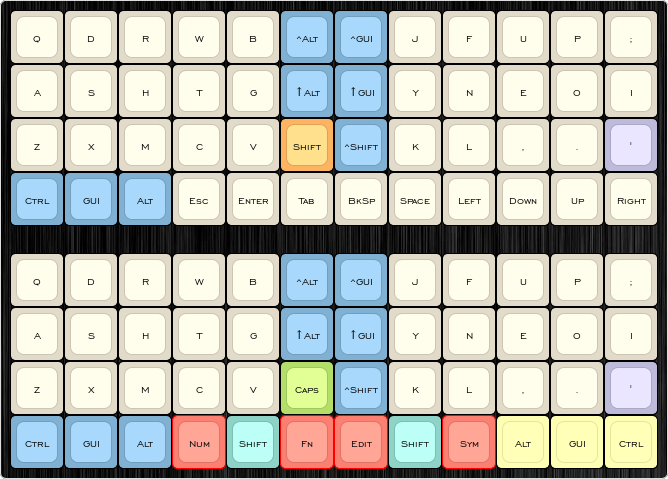
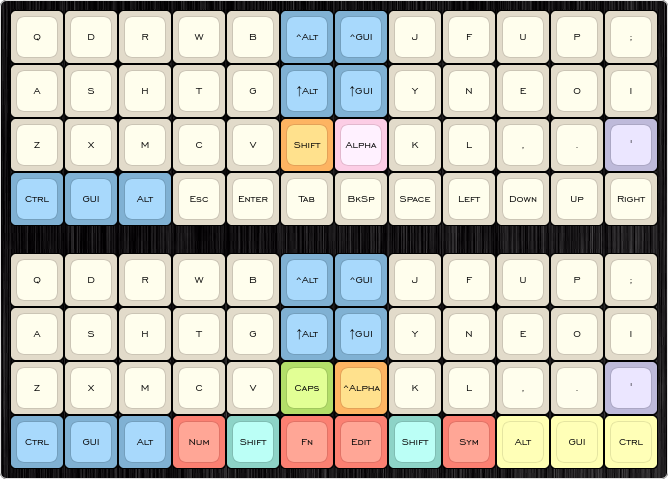
Uppercase alphas on doubletap

diff --git a/keymap.c b/keymap.c
@@ -14,6 +14,7 @@ enum planck_layers {
     _LSHIFT,
     _RSHIFT,
     _ALPHA,
+    _SALPHA,
     _NUMBER,
     _NUMSYM,
     _SYMBOL,
@@ -41,7 +42,7 @@ enum planck_keycodes {
     OS_ALT  = OSM(MOD_LALT),
     OS_CALT = OSM(MOD_LALT | MOD_LCTL),
     OS_CGUI = OSM(MOD_LGUI | MOD_LCTL),
-    OS_CSFT = OSL(_ALPHA), /* OSM(MOD_LSFT | MOD_LCTL), */
+   /* OS_CSFT = OSM(MOD_LSFT | MOD_LCTL), */
     OS_CTL  = OSM(MOD_LCTL),
     OS_GUI  = OSM(MOD_LGUI),
     OS_SALT = OSM(MOD_LALT | MOD_LSFT),
@@ -78,7 +79,8 @@ enum tap_dance {
     _RNGL,
     _RPRN,
     _SPC,
-    _TILD
+    _TILD,
+    _ALPH
 };
 
 #define TD_CAPS TD(_CAPS)
@@ -98,6 +100,7 @@ enum tap_dance {
 #define TD_RPRN TD(_RPRN)
 #define TD_SPC  TD(_SPC)
 #define TD_TILD TD(_TILD)
+#define TD_ALPH TD(_ALPH)
 
 /* keycodes */
 #define ___x___ KC_TRNS
@@ -123,7 +126,7 @@ const uint16_t PROGMEM keymaps[][MATRIX_ROWS][MATRIX_COLS] = {
      * |------+------+------+------+------+-------------+------+------+------+------+------|
      * |   A  |   S  |   H  |   T  |   G  | ↑Alt | ↑GUI |   Y  |   N  |   E  |   O  |   I  |
      * |------+------+------+------+------+------|------+------+------+------+------+------|
-     * |   Z  |   X  |   M  |   C  |   V  | Shift|^Shift|   K  |   L  |   ,  |   .  |   '  |
+     * |   Z  |   X  |   M  |   C  |   V  | Shift| Alpha|   K  |   L  |   ,  |   .  |   '  |
      * |------+------+------+------+------+------+------+------+------+------+------+------|
      * | Ctrl |  GUI |  Alt |  Esc | Enter|  Tab | BkSp | Space| Left | Down |  Up  |Right |
      * `-----------------------------------------------------------------------------------'
@@ -131,14 +134,14 @@ const uint16_t PROGMEM keymaps[][MATRIX_ROWS][MATRIX_COLS] = {
     [_BASE] = {
         {KC_Q,   KC_D,   KC_R,   KC_W,   KC_B,   OS_CALT, OS_CGUI, KC_J,   KC_F,    KC_U,    KC_P,   KC_SCLN},
         {KC_A,   KC_S,   KC_H,   KC_T,   KC_G,   OS_SALT, OS_SGUI, KC_Y,   KC_N,    KC_E,    KC_O,   KC_I},
-        {KC_Z,   KC_X,   KC_M,   KC_C,   KC_V,   TD_CAPS, OS_CSFT, KC_K,   KC_L,    KC_COMM, KC_DOT, TD_QUOT},
+        {KC_Z,   KC_X,   KC_M,   KC_C,   KC_V,   TD_CAPS, TD_ALPH, KC_K,   KC_L,    KC_COMM, KC_DOT, TD_QUOT},
         {OS_CTL, OS_GUI, OS_ALT, LT_ESC, TD_ENT, LT_TAB,  LT_BSPC, TD_SPC, LT_LEFT, AT_DOWN, GT_UP,  CT_RGHT}
     },
 
     [_SHIFT] = {
         {S(KC_Q), S(KC_D), S(KC_R), S(KC_W), S(KC_B), OS_CALT, OS_CGUI, S(KC_J), S(KC_F), S(KC_U), S(KC_P), KC_SCLN},
         {S(KC_A), S(KC_S), S(KC_H), S(KC_T), S(KC_G), OS_SALT, OS_SGUI, S(KC_Y), S(KC_N), S(KC_E), S(KC_O), S(KC_I)},
-        {S(KC_Z), S(KC_X), S(KC_M), S(KC_C), S(KC_V), TD_CAPS, OS_CSFT, S(KC_K), S(KC_L), KC_COMM, KC_DOT,  TD_QUOT},
+        {S(KC_Z), S(KC_X), S(KC_M), S(KC_C), S(KC_V), TD_CAPS, TD_ALPH, S(KC_K), S(KC_L), KC_COMM, KC_DOT,  TD_QUOT},
         {OS_CTL,  OS_GUI,  OS_ALT,  LT_ESC,  TD_ENT,  LT_TAB,  LT_BSPC, TD_SPC,  LT_LEFT, AT_DOWN, GT_UP,   CT_RGHT}
     },
 
@@ -148,7 +151,7 @@ const uint16_t PROGMEM keymaps[][MATRIX_ROWS][MATRIX_COLS] = {
      * |------+------+------+------+------+-------------+------+------+------+------+------|
      * |   A  |   S  |   H  |   T  |   G  | ↑Alt | ↑GUI |   Y  |   N  |   E  |   O  |   I  |
      * |------+------+------+------+------+------|------+------+------+------+------+------|
-     * |   Z  |   X  |   M  |   C  |   V  | Caps |^Shift|   K  |   L  |   /  |   ?  |   "  |
+     * |   Z  |   X  |   M  |   C  |   V  | Caps | Alpha|   K  |   L  |   /  |   ?  |   "  |
      * |------+------+------+------+------+------+------+------+------+------+------+------|
      * | Ctrl |  GUI |  Alt |  Esc |  f() |  Tab |  Del |   -  | Left | Down |  Up  |Right |
      * `-----------------------------------------------------------------------------------'
@@ -156,7 +159,7 @@ const uint16_t PROGMEM keymaps[][MATRIX_ROWS][MATRIX_COLS] = {
     [_LSHIFT] = {
         {S(KC_Q), S(KC_D), S(KC_R), S(KC_W), S(KC_B), OS_CALT, OS_CGUI, S(KC_J), S(KC_F), S(KC_U), S(KC_P), TD_COLN},
         {S(KC_A), S(KC_S), S(KC_H), S(KC_T), S(KC_G), OS_SALT, OS_SGUI, S(KC_Y), S(KC_N), S(KC_E), S(KC_O), S(KC_I)},
-        {S(KC_Z), S(KC_X), S(KC_M), S(KC_C), S(KC_V), TD_CAPS, OS_CSFT, S(KC_K), S(KC_L), KC_SLSH, KC_QUES, TD_DQOT},
+        {S(KC_Z), S(KC_X), S(KC_M), S(KC_C), S(KC_V), TD_CAPS, TD_ALPH, S(KC_K), S(KC_L), KC_SLSH, KC_QUES, TD_DQOT},
         {OS_CTL,  OS_GUI,  OS_ALT,  LT_ESC,  ___fn__, LT_TAB,  KC_DEL,  KC_MINS, PS_LEFT, S_DOWN,  S_UP,    S_RGHT}
     },
 
@@ -166,7 +169,7 @@ const uint16_t PROGMEM keymaps[][MATRIX_ROWS][MATRIX_COLS] = {
      * |------+------+------+------+------+-------------+------+------+------+------+------|
      * |   A  |   S  |   H  |   T  |   G  | ↑Alt | ↑GUI |   Y  |   N  |   E  |   O  |   I  |
      * |------+------+------+------+------+------|------+------+------+------+------+------|
-     * |   Z  |   X  |   M  |   C  |   V  | Caps |^Shift|   K  |   L  |   ~  |   `  |   "  |
+     * |   Z  |   X  |   M  |   C  |   V  | Caps | Alpha|   K  |   L  |   ~  |   `  |   "  |
      * |------+------+------+------+------+------+------+------+------+------+------+------|
      * | Ctrl |  GUI |  Alt |  Esc |   _  |  Tab | BkSp |  f() | Left | Down |  Up  |Right |
      * `-----------------------------------------------------------------------------------'
@@ -174,7 +177,7 @@ const uint16_t PROGMEM keymaps[][MATRIX_ROWS][MATRIX_COLS] = {
     [_RSHIFT] = {
         {S(KC_Q), S(KC_D), S(KC_R), S(KC_W), S(KC_B), OS_CALT, OS_CGUI, S(KC_J), S(KC_F), S(KC_U), S(KC_P), TD_COLN},
         {S(KC_A), S(KC_S), S(KC_H), S(KC_T), S(KC_G), OS_SALT, OS_SGUI, S(KC_Y), S(KC_N), S(KC_E), S(KC_O), S(KC_I)},
-        {S(KC_Z), S(KC_X), S(KC_M), S(KC_C), S(KC_V), TD_CAPS, OS_CSFT, S(KC_K), S(KC_L), TD_TILD, TD_GRV, TD_DQOT},
+        {S(KC_Z), S(KC_X), S(KC_M), S(KC_C), S(KC_V), TD_CAPS, TD_ALPH, S(KC_K), S(KC_L), TD_TILD, TD_GRV, TD_DQOT},
         {OS_CTL,  OS_GUI,  OS_ALT,  LT_ESC,  KC_UNDS, PS_TAB,  LT_BSPC, ___fn__, PS_LEFT, S_DOWN,  S_UP,    S_RGHT}
     },
 
@@ -190,10 +193,28 @@ const uint16_t PROGMEM keymaps[][MATRIX_ROWS][MATRIX_COLS] = {
      * '-----------------------------------------------------------------------------------'
      */
     [_ALPHA] = {
-        {UC(0x03B8), UC(0x03B4), UC(0x03C1), UC(0x03C9), UC(0x03B2), _______, _______, UC(0x03c2), UC(0x03c6), UC(0x03c5), UC(0x03c0), _______},
-        {UC(0x03b1), UC(0x03c3), UC(0x03b7), UC(0x03c4), UC(0x03b3), _______, _______, UC(0x03c8), UC(0x03bd), UC(0x03b5), UC(0x03bf), UC(0x03b9)},
-        {UC(0x03b6), UC(0x03c7), UC(0x03bc), UC(0x03be), _______,  _______, _______, UC(0x03ba), UC(0x03bb), UC(0xe5), UC(0xe4), UC(0xf6)},
-        {___x___,  ___x___,  ___x___,  ___x___,  ___x___,  ___x___, ___x___, ___x___,  ___x___,  ___x___,  ___x___,  ___x___},
+        {UC(0x03B8), UC(0x03B4), UC(0x03C1), UC(0x03C9), UC(0x03B2), _______, _______, UC(0x03C2), UC(0x03C6), UC(0x03C5), UC(0x03C0), _______},
+        {UC(0x03B1), UC(0x03C3), UC(0x03B7), UC(0x03C4), UC(0x03B3), _______, _______, UC(0x03C8), UC(0x03BD), UC(0x03B5), UC(0x03Bf), UC(0x03B9)},
+        {UC(0x03B6), UC(0x03C7), UC(0x03BC), UC(0x03BE), _______,    _______, _______, UC(0x03BA), UC(0x03BB), UC(0xE5),   UC(0xE4),   UC(0xF6)},
+        {___x___,     ___x___,   ___x___,    ___x___,    ___x___,    ___x___, ___x___, ___x___,    ___x___,    ___x___,    ___x___,    ___x___},
+    },
+
+    /* Shifted Alpha
+     * .-----------------------------------------------------------------------------------.
+     * |   Θ  |   Δ  |   Ρ  |   Ω  |   Β  |      |      |   Σ  |   Φ  |   Υ  |   Π  |      |
+     * |-----------------------------------------------------------------------------------|
+     * |   Α  |   Σ  |   Η  |   Τ  |   Γ  |      |      |   Ψ  |   Ν  |   Ε  |   Ο  |   Ι  |
+     * |-----------------------------------------------------------------------------------|
+     * |   Ζ  |   Χ  |   Μ  |   Ξ  |      |      |      |   Κ  |   Λ  |   Å  |   Ä  |   Ö  |
+     * |-----------------------------------------------------------------------------------|
+     * |      |      |      |      |      |      |      |      |      |      |      |      |
+     * '-----------------------------------------------------------------------------------'
+     */
+    [_SALPHA] = {
+        {UC(0x0398), UC(0x0394), UC(0x03A1), UC(0x03A9), UC(0x0392), _______, _______, UC(0x03A3), UC(0x03A6), UC(0x03A5), UC(0x03A0), _______},
+        {UC(0x0391), UC(0x03A3), UC(0x0397), UC(0x03A4), UC(0x0393), _______, _______, UC(0x03A8), UC(0x039D), UC(0x0395), UC(0x039F), UC(0x0399)},
+        {UC(0x0396), UC(0x03A7), UC(0x039C), UC(0x039E), _______,    _______, _______, UC(0x039A), UC(0x039B), UC(0xC5),   UC(0xC4),   UC(0xD6)},
+        {___x___,     ___x___,   ___x___,    ___x___,    ___x___,    ___x___, ___x___, ___x___,    ___x___,    ___x___,    ___x___,    ___x___},
     },
 
     /* Numpad
@@ -523,6 +544,7 @@ void space_reset(qk_tap_dance_state_t *state, void *user_data)
     tap_reset(KC_SPC, _RSHIFT);
 }
 
+
 /* Tap Dance Pairs ---------------------------------------------------------- */
 
 /* tap dance shift rules */
@@ -637,6 +659,21 @@ void rparen_reset(qk_tap_dance_state_t *state, void *user_data)
     unregister_code(KC_LCTL);
 }
 
+void alpha(qk_tap_dance_state_t *state, void *user_data)
+{
+    if (state->count > 1) {
+        set_oneshot_layer(_SALPHA, ONESHOT_START);
+    }
+    else {
+        set_oneshot_layer(_ALPHA, ONESHOT_START);
+    }
+}
+
+void alpha_reset(qk_tap_dance_state_t *state, void *user_data)
+{
+    clear_oneshot_layer_state(ONESHOT_PRESSED);
+}
+
 /* Tap Dance Insert --------------------------------------------------------- */
 
 void colon(qk_tap_dance_state_t *state, void *user_data)
@@ -676,6 +713,7 @@ void caps(qk_tap_dance_state_t *state, void *user_data)
     reset_tap_dance(state);
 }
 
+
 qk_tap_dance_action_t tap_dance_actions[] = {
     [_CAPS] = ACTION_TAP_DANCE_FN(caps),
     [_COLN] = ACTION_TAP_DANCE_FN(colon),
@@ -688,6 +726,7 @@ qk_tap_dance_action_t tap_dance_actions[] = {
     [_RBRC] = ACTION_TAP_DANCE_FN(rbrace),
     [_RCBR] = ACTION_TAP_DANCE_FN(rcurly),
     [_RNGL] = ACTION_TAP_DANCE_FN(rangle),
+    [_ALPH] = ACTION_TAP_DANCE_FN_ADVANCED(NULL, alpha, alpha_reset),
     [_LPRN] = ACTION_TAP_DANCE_FN_ADVANCED(NULL, lparen, lparen_reset),
     [_ENT]  = ACTION_TAP_DANCE_FN_ADVANCED(NULL, enter, enter_reset),
     [_RPRN] = ACTION_TAP_DANCE_FN_ADVANCED(NULL, rparen, rparen_reset),

diff --git a/readme.md b/readme.md
@@ -19,6 +19,10 @@ May investigate some ideas [ojbucao](https://github.com/ojbucao/Workman/tree/mas
 
 ![Shift Layers](layout/layer-shift.png)
 
+## Alpha layers
+
+![Alpha Layers](layout/layer-alpha.png)
+
 ## Numeric layers
 
 ![Numeric Layers](layout/layer-numeric.png)
